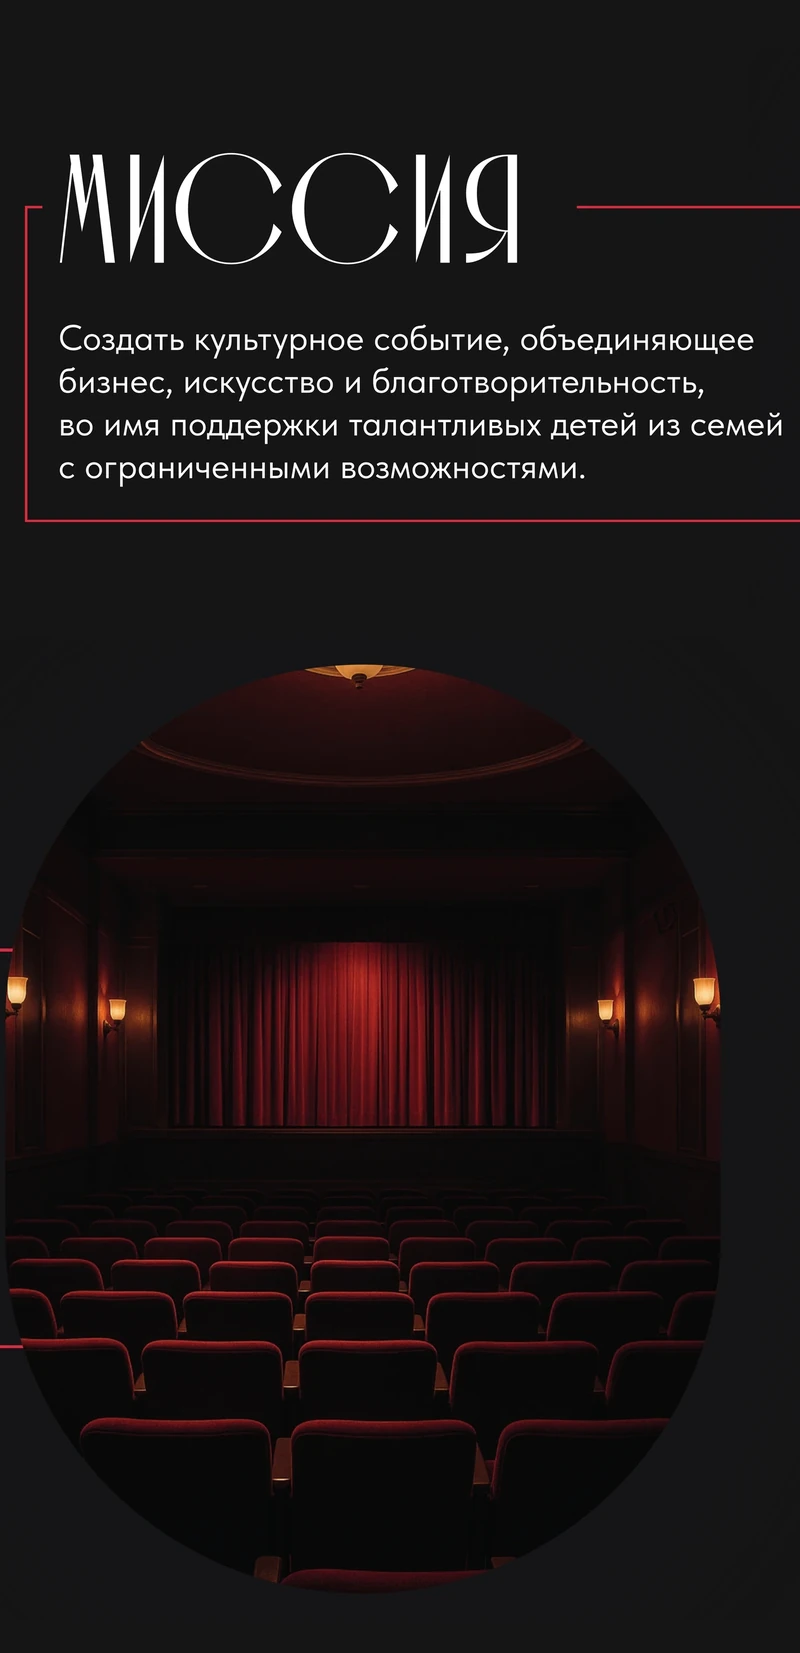
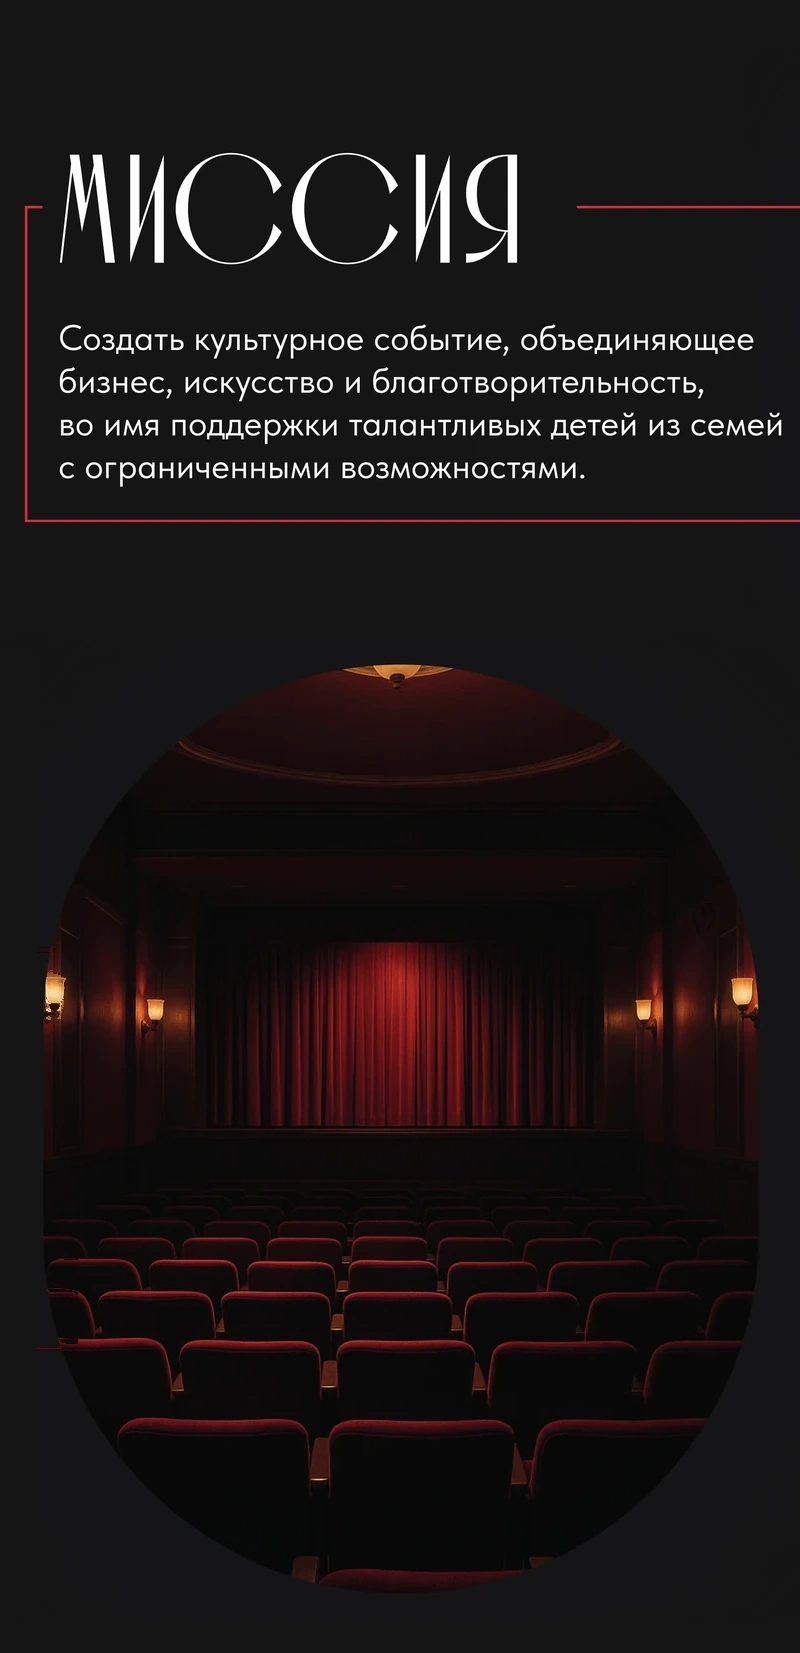
home: centre the phone ovals and clear the leftover red frames
mobile-mission: the oval sat 38px left of the centre line and two red frame
stubs poked out of its left edge. The art is shifted 38px right, the stubs
are inpainted from the surrounding wall/background, and the band is repainted
so the old position leaves no ring.

mobile-goal: the red frame line that ran from the photo to the right edge is
gone; the frame around the paragraph stays as the designer drew it.

show: the Toratau art appears on phones and tablets as a corner mark above
the title (the wide art is parked behind the copy, so it can't be reused), the
eyebrow keeps two lines to free that corner, and the venue pill is now a link
to Yandex Maps with the whole pill as the hit area and a ↗ affordance.
320-360px trims the eyebrow and pill so the venue label stays on one line.

The «Благотворительная акция проекта» photo on the show page is the new
stage shot; why-stage.jpg is also that page's og:image.

diff --git a/assets/css/show.css b/assets/css/show.css
@@ -45,6 +45,29 @@
    display: none;
 }
 
+/* Phones and tablets get the Toratau mark in the empty top-right corner: the
+   wide layout parks the art behind the copy, where it would sit under the
+   two-line title. */
+@media (max-width: 1279px) {
+   .show-hero__art {
+      display: block;
+      position: absolute;
+      top: -4px;
+      right: -4px;
+      z-index: -1;
+      width: clamp(96px, 30vw, 144px);
+      aspect-ratio: 1;
+      background: url("../img/story/hero-toratau.webp") no-repeat right top / contain;
+      opacity: 0.92;
+      pointer-events: none;
+   }
+
+   /* Keep the two-word label on two lines so the corner stays free for the art. */
+   .show-hero .eyebrow {
+      max-width: 300px;
+   }
+}
+
 @media (min-width: 1280px) {
    .show-hero__art {
       display: block;
@@ -107,6 +130,35 @@
 .show-hero__facts li:first-child {
    border-color: var(--accent);
    color: var(--accent-soft);
+}
+
+/* The venue pill is a link: the ::after overlay makes the whole pill the hit
+area, so a thumb can hit the border and not only the words. */
+.show-hero__fact_venue {
+   position: relative;
+   transition: border-color var(--speed) var(--ease), color var(--speed) var(--ease);
+}
+
+.show-hero__fact_venue a {
+   color: inherit;
+}
+
+.show-hero__fact_venue a::after {
+   content: "";
+   position: absolute;
+   inset: 0;
+   border-radius: inherit;
+}
+
+.show-hero__fact_venue:hover,
+.show-hero__fact_venue:focus-within {
+   border-color: var(--muted-2);
+   color: var(--fg);
+}
+
+.show-hero__fact_arrow {
+   margin-left: 8px;
+   color: var(--muted-3);
 }
 
 .show-hero__actions {
@@ -312,5 +364,21 @@
 
    .show-cta__actions .btn {
       width: 100%;
+   }
+}
+
+/* 320-360px: the venue pill has to stay one line under the corner art. */
+@media (max-width: 360px) {
+   .show-hero .eyebrow {
+      font-size: 16px;
+   }
+
+   .show-hero__facts li {
+      padding: 12px 16px;
+      font-size: 16px;
+   }
+
+   .show-hero__fact_arrow {
+      margin-left: 6px;
    }
 }

diff --git a/ufa-nov-2026/index.html b/ufa-nov-2026/index.html
@@ -15,7 +15,7 @@
 	<link rel="icon" href="../assets/img/accent-circle.svg" type="image/svg+xml">
 	<link rel="preload" href="../assets/fonts/TildaSans-VF.woff2" as="font" type="font/woff2" crossorigin>
 	<link rel="stylesheet" href="../assets/css/main.css?v=20261027a">
-	<link rel="stylesheet" href="../assets/css/show.css?v=20261023d">
+	<link rel="stylesheet" href="../assets/css/show.css?v=20261027a">
 	<script>if (!window.matchMedia || !matchMedia('(prefers-reduced-motion: reduce)').matches) {document.documentElement.classList.add('motion');}</script>
 </head>
 
@@ -60,7 +60,11 @@
 
 				<ul class="show-hero__facts">
 					<li>25 ноября 2026</li>
-					<li>Уфа, Конгресс-холл «Торатау»</li>
+					<li class="show-hero__fact_venue">
+						<a href="https://yandex.ru/maps/?text=%D0%9A%D0%BE%D0%BD%D0%B3%D1%80%D0%B5%D1%81%D1%81-%D1%85%D0%BE%D0%BB%D0%BB%20%C2%AB%D0%A2%D0%BE%D1%80%D0%B0%D1%82%D0%B0%D1%83%C2%BB%2C%20%D0%A3%D1%84%D0%B0"
+							target="_blank" rel="noopener" aria-label="Уфа, Конгресс-холл «Торатау» — открыть в Яндекс Картах">Уфа,
+							Конгресс-холл «Торатау»<span class="show-hero__fact_arrow" aria-hidden="true">↗</span></a>
+					</li>
 				</ul>
 
 				<div class="show-hero__actions">
@@ -156,8 +160,8 @@
 				</div>
 				<figure class="why__media reveal_img" data-parallax>
 					<div class="why__media-frame">
-						<img src="../assets/img/story/why-stage.jpg" alt="Вручение подарка на сцене" width="1600" height="1067"
-							loading="lazy">
+						<img src="../assets/img/story/why-stage.jpg" alt="Ведущие благотворительной акции проекта на сцене"
+							width="1600" height="1067" loading="lazy">
 					</div>
 					<figcaption>Благотворительная акция проекта</figcaption>
 				</figure>

diff --git a/index.html b/index.html
@@ -72,7 +72,7 @@
 		<section class="programme-pdf" aria-label="Программа «Люди Бренды»">
 			<figure class="pdf-slide reveal">
 				<picture>
-					<source media="(max-width:640px)" srcset="assets/img/story/mobile-mission.webp?v=2" width="800" height="1653">
+					<source media="(max-width:640px)" srcset="assets/img/story/mobile-mission.webp?v=3" width="800" height="1653">
 					<img src="assets/img/story/pdf-mission.webp"
 						alt="Миссия: создать культурное событие, объединяющее бизнес, искусство и благотворительность, во имя поддержки талантливых детей из семей с ограниченными возможностями."
 						width="2400" height="1350" loading="lazy">
@@ -80,7 +80,7 @@
 			</figure>
 			<figure class="pdf-slide reveal">
 				<picture>
-					<source media="(max-width:640px)" srcset="assets/img/story/mobile-goal.webp?v=2" width="800" height="1374">
+					<source media="(max-width:640px)" srcset="assets/img/story/mobile-goal.webp?v=3" width="800" height="1374">
 					<img src="assets/img/story/pdf-goal.webp"
 						alt="Цель: привлечение внимания и ресурсов для помощи одарённым детям из малообеспеченных семей через театральный спектакль."
 						width="2400" height="1350" loading="lazy">
